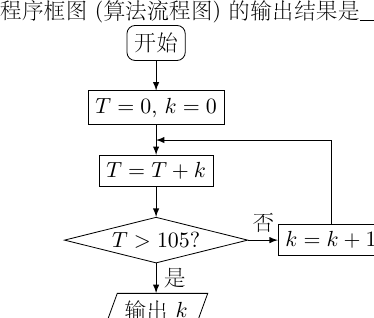
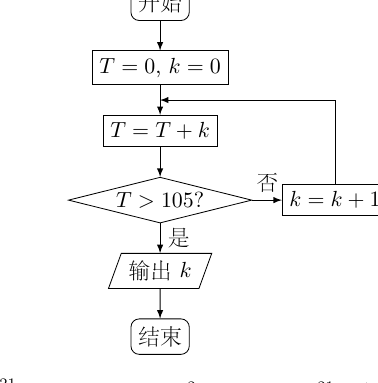
chore: sync precision manifest queue

diff --git a/content/2011/anhui_liberal.tex b/content/2011/anhui_liberal.tex
@@ -1,138 +1,160 @@
-\chapter{2013年安徽卷（文）}
+\chapter{2011年安徽卷（文）}
 
 \section{单选题}
 
 \begin{problem}
-设 \(i\) 是虚数单位，若复数 \(a - \frac{10}{3 - \i}\) \((a \in \R)\) 是纯虚数，则 \(a\) 的值为（\quad）
+设 \(i\) 是虚数单位，复数 \(\frac{1 + ai}{2 - \i}\) 为纯虚数，则实数 \(a\) 为（\quad）
 
 \choices
-    {\(-3\)}
+    {2}
+    {\(-2\)}
+    {\(-\frac{1}{2}\)}
+    {\(\frac{1}{2}\)}
+\end{problem}
+
+\begin{problem}
+集合 \(U = \{1, 2, 3, 4, 5, 6\}\)，\(S = \{1, 4, 5\}\)，\(T = \{2, 3, 4\}\)，则 \(S \cap \left(\complement_{U} T\right)\) 等于（\quad）
+
+\choices
+    {\(\{1, 4, 5, 6\}\)}
+    {\(\{1, 5\}\)}
+    {\(\{4\}\)}
+    {\(\{1, 2, 3, 4, 5\}\)}
+\end{problem}
+
+\begin{problem}
+双曲线 \(2x^{2} - y^{2} = 8\) 的实轴长是（\quad）
+
+\choices
+    {2}
+    {\(2\sqrt{2}\)}
+    {4}
+    {\(4\sqrt{2}\)}
+\end{problem}
+
+\begin{problem}
+若直线 \(3x + y + a = 0\) 过圆 \(x^{2} + y^{2} + 2x - 4y = 0\) 的圆心，则 \(a\) 的值为（\quad）
+
+\choices
     {\(-1\)}
     {1}
     {3}
+    {\(-3\)}
 \end{problem}
 
 \begin{problem}
-已知 \(A = \{x \mid x + 1 > 0\}\)，\(B = \{-2, -1, 0, 1\}\)，则 \(\left(\complement_{\R} A\right) \cap B =\)（\quad）
+若点 \((a, b)\) 在 \(y = \lg x\) 图象上，\(a \neq 1\)，则下列点中在此图象上的是（\quad）
 
 \choices
-    {\(\{-2, -1\}\)}
-    {\(\{-2\}\)}
-    {\(\{-1, 0, 1\}\)}
-    {\(\{0, 1\}\)}
+    {\(\left(\frac{1}{a}, b\right)\)}
+    {\((10a, 1 - b)\)}
+    {\(\left(\frac{10}{a}, b + 1\right)\)}
+    {\((a^{2}, 2b)\)}
 \end{problem}
 
 \begin{problem}
-如图所示，程序框图 (算法流程图) 的输出结果是（\quad）
-
-\bitmapfigure[max width=0.28\linewidth,max totalheight=4.8cm]{img/2011/anhui_liberal/q3_fig1.png}
+设变量 \(x, y\) 满足
+\[
+\begin{cases}
+x + y \leqslant 1, \\
+x - y \leqslant 1, \\
+x \geqslant 0,
+\end{cases}
+\]
+则 \(x + 2y\) 的最大值和最小值分别为（\quad）
 
 \choices
-    {\( \frac{3}{4} \)}
-    {\( \frac{1}{6} \)}
-    {\( \frac{11}{12} \)}
-    {\( \frac{25}{24} \)}
+    {1, \(-1\)}
+    {2, \(-2\)}
+    {1, \(-2\)}
+    {2, \(-1\)}
 \end{problem}
 
 \begin{problem}
-“\((2x - 1)x = 0\)”是“\(x = 0\)”的（\quad）
+若数列 \(\{a_{n}\}\) 的通项公式是 \(a_{n} = (-1)^{n}(3n - 2)\)，则 \(a_{1} + a_{2} + \cdots + a_{10} =\)（\quad）
 
 \choices
-    {充分不必要条件}
-    {必要不充分条件}
-    {充分必要条件}
-    {既不充分也不必要条件}
+    {15}
+    {12}
+    {\(-12\)}
+    {\(-15\)}
 \end{problem}
 
 \begin{problem}
-若某公司从五位大学毕业生甲、乙、丙、丁、戊中录用三人，这五人被录用的机会均等，则甲或乙被录用的概率为（\quad）
+一个空间几何体的三视图如图所示，则该几何体的表面积为（\quad）
+
+\bitmapfigure[max width=0.32\linewidth,max totalheight=4.8cm]{img/2011/anhui_liberal/q8_fig1.png}
 
 \choices
-    {\( \frac{2}{3} \)}
-    {\( \frac{2}{5} \)}
-    {\( \frac{3}{5} \)}
-    {\( \frac{9}{10} \)}
+    {48}
+    {\(32 + 8\sqrt{17}\)}
+    {\(48 + 8\sqrt{17}\)}
+    {80}
 \end{problem}
 
 \begin{problem}
-直线 \(x + 2y - 5 + \sqrt{5} = 0\) 被圆 \(x^{2} + y^{2} - 2x - 4y = 0\) 截得的弦长为（\quad）
+从正六边形的 6 个顶点中随机选择 4 个顶点，则以它们作为顶点的四边形是矩形的概率等于（\quad）
+
+\choices
+    {\(\frac{1}{10}\)}
+    {\(\frac{1}{8}\)}
+    {\(\frac{1}{6}\)}
+    {\(\frac{1}{5}\)}
+\end{problem}
+
+\begin{problem}
+函数 \(f(x) = ax^{n}(1 - x)\) 在区间 \([0, 1]\) 上的图象如图所示，则 \(n\) 可能是（\quad）
+
+\bitmapfigure[max width=0.28\linewidth,max totalheight=4.8cm]{img/2011/anhui_liberal/q10_fig1.png}
 
 \choices
     {1}
     {2}
-    {4}
-    {\( 4\sqrt{6} \)}
-\end{problem}
-
-\begin{problem}
-设 \(S_{n}\) 为等差数列 \(\{a_{n}\}\) 的前 \(n\) 项和，\(S_{8} = 4a_{3}, a_{7} = -2\)，则 \(a_{9} =\)（\quad）
-
-\choices
-    {\(-6\)}
-    {\(-4\)}
-    {\(-2\)}
-    {2}
-\end{problem}
-
-\begin{problem}
-函数 \( y = f(x) \) 的图象如图所示，在区间 \([a, b]\) 上可找到 \( n (n \geqslant 2) \) 个不同的数 \( x_1, x_2, \cdots, x_n \)，使得 \( \frac{f(x_1)}{x_1} = \frac{f(x_2)}{x_2} = \cdots = \frac{f(x_n)}{x_n} \)，则 \( n \) 的取值范围为（\quad）
-
-\bitmapfigure[max width=0.28\linewidth,max totalheight=4.8cm]{img/2011/anhui_liberal/q8_fig1.png}
-
-\choices
-    {\(\{2, 3\}\)}
-    {\(\{2, 3, 4\}\)}
-    {\(\{3, 4\}\)}
-    {\(\{3, 4, 5\}\)}
-\end{problem}
-
-\begin{problem}
-设 \(\triangle ABC\) 的内角 \(A, B, C\) 所对边的长分别为 \(a, b, c\)，若 \(b + c = 2a\)，\(3\sin A = 5\sin B\)，则角 \(C =\)（\quad）
-
-\choices
-    {\( \frac{\pi}{3} \)}
-    {\( \frac{2\pi}{3} \)}
-    {\( \frac{3\pi}{4} \)}
-    {\(\frac{5\pi}{6}\)}
-\end{problem}
-
-\begin{problem}
-已知函数 \( f(x) = x^3 + ax^2 + bx + c \) 有两个极值点 \( x_1, x_2 \)，若 \( f(x_1) = x_1 < x_2 \)，则关于 \( x \) 的方程 \( 3(f(x))^2 + 2af(x) + b = 0 \) 的不同实根个数为（\quad）
-
-\choices
     {3}
     {4}
-    {5}
-    {6}
 \end{problem}
 
 \section{填空题}
 
 \begin{problem}
-函数 \( y = \ln \left(1 + \frac{1}{x}\right) + \sqrt{1 - x^{2}} \) 的定义域为 \fillinblank{}.
+设 \(f(x)\) 是定义在 \(\R\) 上的奇函数，当 \(x \leqslant 0\) 时，\(f(x) = 2x^{2} - x\)，则 \(f(1) = \fillinblank{}\).
 \end{problem}
 
 \begin{problem}
-若非负变量 \(x, y\) 满足的约束条件 \(\begin{cases} x - y \geqslant -1, \\ x + 2y \leqslant 4. \end{cases}\) 则 \(x + y\) 的最大值为 \fillinblank{}.
+如图所示，程序框图（算法流程图）的输出结果是 \fillinblank{}.
+
+\bitmapfigure[max width=0.28\linewidth,max totalheight=4.8cm]{img/2011/anhui_liberal/q12_fig1.png}
 \end{problem}
 
 \begin{problem}
-若非零向量 \(a, b\) 满足 \(\lvert a \rvert = 3\lvert b \rvert = \lvert a + 2b \rvert\)，则 \(a\) 与 \(b\) 夹角的余弦值为 \fillinblank{}.
+函数 \(y = \frac{1}{\sqrt{6 - x - x^{2}}}\) 的定义域是 \fillinblank{}.
 \end{problem}
 
 \begin{problem}
-定义在 \(\R\) 上的函数 \(f(x)\) 满足 \(f(x + 1) = 2f(x)\). 若当 \(0 \leqslant x \leqslant 1\) 时，\(f(x) = x(1 - x)\)，则当 \(-1 \leqslant x \leqslant 0\) 时，\(f(x) = \fillinblank{}\).
+已知向量 \(a, b\) 满足 \((a + 2b) \cdot (a - b) = -6\)，且 \(|a| = 1, |b| = 2\)，则 \(a\) 与 \(b\) 的夹角为 \fillinblank{}.
 \end{problem}
 
 \begin{problem}
-如图，正方体 \(ABCD - A_{1}B_{1}C_{1}D_{1}\) 的棱长为 \(1\)，\(P\) 为 \(BC\) 中点，\(Q\) 为线段 \(CC_{1}\) 上的动点，过 \(A\)、\(P\)、\(Q\) 的平面截该正方体所得的截面记为 \(S\)，则下列命题正确的是 \fillinblank{}.（写出所有正确命题的编号）
+设 \(f(x) = a\sin 2x + b\cos 2x\)，其中 \(a, b \in \R, ab \neq 0\)，若 \(f(x) \leqslant \left|f\left(\frac{\pi}{6}\right)\right|\) 对一切 \(x \in \R\) 恒成立，则
+\begin{enumerate}
+\item \(f\left(\frac{11\pi}{12}\right) = 0\);
+\item \(f\left(\frac{7\pi}{10}\right) < \left|f\left(\frac{\pi}{5}\right)\right|\);
+\item \(f(x)\) 既不是奇函数，也不是偶函数;
+\item \(f(x)\) 的单调递增区间是 \(\left[k\pi + \frac{\pi}{6}, k\pi + \frac{2\pi}{3}\right]\)（\(k \in \Z\)）;
+\item 存在经过点 \((a, b)\) 的直线与函数 \(f(x)\) 的图象不相交.
+\end{enumerate}
+以上结论正确的是 \fillinblank{}.（写出所有正确结论的编号）
+\end{problem}
+
+\begin{problem}
+如图，正方体 \(ABCD - A_{1}B_{1}C_{1}D_{1}\) 的棱长为 \(1\)，\(P\) 为 \(BC\) 中点，\(Q\) 为线段 \(CC_{1}\) 上的动点，过 \(A\)、\(P\)、\(Q\) 的平面截该正方体所得的截面记为 \(S\)，则下列命题正确的是 \fillinblank{}。（写出所有正确命题的编号）
 
 \bitmapfigure[max width=0.32\linewidth,max totalheight=4.8cm]{img/2011/anhui_liberal/q15_fig1.png}
 
 \begin{circlelist}
 \item 当 \(0 < CQ < \frac{1}{2}\) 时，\(S\) 为四边形;
 \item 当 \(CQ = \frac{1}{2}\) 时，\(S\) 为等腰梯形;
-\item 当 \(CQ = \frac{3}{4}\) 时，\(S\) 与 \(C_1D_1\) 交点 \(R\) 满足 \(C_1R = \frac{1}{3}\);
+\item 当 \(CQ = \frac{3}{4}\) 时，\(S\) 与 \(C_{1}D_{1}\) 交点 \(R\) 满足 \(C_{1}R = \frac{1}{3}\);
 \item 当 \(\frac{3}{4} < CQ < 1\) 时，\(S\) 为六边形;
 \item 当 \(CQ = 1\) 时，\(S\) 的面积为 \(\frac{\sqrt{6}}{2}\).
 \end{circlelist}
@@ -141,28 +163,28 @@
 \section{解答题}
 
 \begin{problem}
-设函数 \( f(x) = \sin x + \sin \left(x + \frac{\pi}{3}\right) \).
+设函数 \(f(x) = \sin x + \sin \left(x + \frac{\pi}{3}\right)\).
 \begin{enumerate}
-\item 求 \( f(x) \) 的最小值，并求使 \( f(x) \) 取得最小值的 \(x\) 的集合;
-\item 不画图，说明函数 \( y = f(x) \) 的图象可由 \( y = \sin x \) 的图象经过怎样的变化得到.
+\item 求 \(f(x)\) 的最小值，并求使 \(f(x)\) 取得最小值的 \(x\) 的集合;
+\item 不画图，说明函数 \(y = f(x)\) 的图象可由 \(y = \sin x\) 的图象经过怎样的变化得到.
 \end{enumerate}
 \end{problem}
 
 \begin{problem}
-为调查甲、乙两校高三年级学生某次联考数学成绩情况. 用简单随机抽样，从这两校中各抽取 \(30\) 名高三年级学生，以他们的数学成绩（百分制）作为样本，样本数据的茎叶图如图:
+为调查甲、乙两校高三年级学生某次联考数学成绩情况。用简单随机抽样，从这两校中各抽取 \(30\) 名高三年级学生，以他们的数学成绩（百分制）作为样本，样本数据的茎叶图如图:
 
 \bitmapfigure[max width=0.46\linewidth,max totalheight=4.8cm]{img/2011/anhui_liberal/q17_fig1.png}
 
 \begin{enumerate}
 \item 若甲校高三年级每位学生被抽取的概率为 \(0.05\)，求甲校高三年级学生总人数，并估计甲校高三年级这次联考数学成绩的及格率（\(60\) 分及 \(60\) 分以上为及格）;
-\item 设甲、乙两校高三年级学生这次联考平均成绩分别为 \( \bar{x}_{1}, \bar{x}_{2} \)，估计 \( \bar{x}_{1} - \bar{x}_{2} \) 的值.
+\item 设甲、乙两校高三年级学生这次联考平均成绩分别为 \(\bar{x}_{1}, \bar{x}_{2}\)，估计 \(\bar{x}_{1} - \bar{x}_{2}\) 的值.
 \end{enumerate}
 \end{problem}
 
 \begin{problem}
 如图，四棱锥 \(P - ABCD\) 的底面 \(ABCD\) 是边长为 \(2\) 的菱形，\(\angle BAD = 60^{\circ}\). 已知 \(PB = PD = 2\)，\(PA = \sqrt{6}\).
 
-\bitmapfigure[max width=0.34\linewidth,max totalheight=4.8cm]{img/2011/anhui_liberal/q18_fig1.png}
+\bitmapfigure[max width=0.34\linewidth,max totalheight=4.8cm]{img/2011/anhui_liberal/q19_fig1.png}
 
 \begin{enumerate}
 \item 证明: \(PC \perp BD\);
@@ -182,17 +204,17 @@
 \end{problem}
 
 \begin{problem}
-设函数 \( f(x) = ax - (1 + a^2)x^2 \)，其中 \( a > 0 \)，区间 \( I = \{x \mid f(x) > 0\} \).
+设函数 \(f(x) = ax - (1 + a^{2})x^{2}\)，其中 \(a > 0\)，区间 \(I = \{x \mid f(x) > 0\}\).
 \begin{enumerate}
 \item 求 \(I\) 的长度（注：区间 \((\alpha, \beta)\) 的长度定义为 \(\beta - \alpha\)）;
-\item 给定常数 \(k \in (0,1)\)，当 \(1 - k \leqslant a \leqslant 1 + k\) 时，求 \(I\) 长度的最小值.
+\item 给定常数 \(k \in (0, 1)\)，当 \(1 - k \leqslant a \leqslant 1 + k\) 时，求 \(I\) 长度的最小值.
 \end{enumerate}
 \end{problem}
 
 \begin{problem}
-已知椭圆 \(C: \frac{x^2}{a^2} + \frac{y^2}{b^2} = 1 (a > b > 0)\) 的焦距为 \(4\)，且过点 \(P(\sqrt{2}, \sqrt{3})\).
+已知椭圆 \(C: \frac{x^{2}}{a^{2}} + \frac{y^{2}}{b^{2}} = 1\)（\(a > b > 0\)）的焦距为 \(4\)，且过点 \(P(\sqrt{2}, \sqrt{3})\).
 \begin{enumerate}
 \item 求椭圆 \(C\) 的方程.
-\item 设 \(Q(x_0, y_0) (x_0 y_0 \neq 0)\) 为椭圆 \(C\) 上一点，过点 \(Q\) 作 \(x\) 轴的垂线，垂足为 \(E\). 取点 \(A(0, 2\sqrt{2})\)，连接 \(AE\). 过点 \(A\) 作 \(AE\) 的垂线交 \(x\) 轴于点 \(D\). 点 \(G\) 是点 \(D\) 关于 \(y\) 轴的对称点，作直线 \(QG\). 问这样作出的直线 \(QG\) 是否与椭圆 \(C\) 一定有唯一的公共点? 并说明理由.
+\item 设 \(Q(x_{0}, y_{0})\)（\(x_{0}y_{0} \neq 0\)）为椭圆 \(C\) 上一点，过点 \(Q\) 作 \(x\) 轴的垂线，垂足为 \(E\). 取点 \(A(0, 2\sqrt{2})\)，连接 \(AE\). 过点 \(A\) 作 \(AE\) 的垂线交 \(x\) 轴于点 \(D\). 点 \(G\) 是点 \(D\) 关于 \(y\) 轴的对称点，作直线 \(QG\). 问这样作出的直线 \(QG\) 是否与椭圆 \(C\) 一定有唯一的公共点? 并说明理由.
 \end{enumerate}
 \end{problem}

diff --git a/content/2011/guangdong_science.tex b/content/2011/guangdong_science.tex
@@ -9,7 +9,7 @@
     {\(1 + \i\)}
     {\(1 - \i\)}
     {\(2 + 2\i\)}
-    {2 - 2i}
+    {\(2 - 2\i\)}
 \end{problem}
 
 \begin{problem}
@@ -87,7 +87,7 @@
 \section{填空题}
 
 \begin{problem}
-不等式 \(|x + 1| - |x - 3| \geqslant 0\) 的解集是 \fillinblank{} \fillinblank{}.
+不等式 \(|x + 1| - |x - 3| \geqslant 0\) 的解集是 \fillinblank{}.
 \end{problem}
 
 \begin{problem}
@@ -135,7 +135,7 @@
 \end{problem}
 
 \begin{problem}
-设圆 \(C\) 与两圆 \((x + \sqrt{3})^2 + y^2 = 4, (x - \sqrt{3})^2 + y^2 = 4\) 中的一个内切，另一个外切. (1) 求 \(C\) 的圆心轨迹 \(L\) 的方程. (2) 已知点 \(M\left(\frac{3\sqrt{5}}{5}, \frac{4\sqrt{5}}{5}\right)\)，\(F(\sqrt{5}, 0)\)，且 \(P\) 为 \(L\) 上动点，求 \(\|MP\| - \|FP\|\) 的最大值及此时点 \(P\) 的坐标.
+设圆 \(C\) 与两圆 \((x + \sqrt{5})^2 + y^2 = 4, (x - \sqrt{5})^2 + y^2 = 4\) 中的一个内切，另一个外切. (1) 求 \(C\) 的圆心轨迹 \(L\) 的方程. (2) 已知点 \(M\left(\frac{3\sqrt{5}}{5}, \frac{4\sqrt{5}}{5}\right)\)，\(F(\sqrt{5}, 0)\)，且 \(P\) 为 \(L\) 上动点，求 \(\|MP\| - \|FP\|\) 的最大值及此时点 \(P\) 的坐标.
 \end{problem}
 
 \begin{problem}

diff --git a/content/2011/anhui_science.tex b/content/2011/anhui_science.tex
@@ -97,6 +97,8 @@
 \begin{problem}
 函数 \( f(x) = ax^{m}(1 - x)^n \) 在区间 \([0,1]\) 上的图象如图所示，则 \( m, n \) 的值可能是（\quad）
 
+\bitmapfigure[max width=0.46\linewidth,max totalheight=3.4cm]{img/2011/anhui_science/q10_fig1.png}
+
 \choices
     {\(m = 1, n = 1\)}
     {\(m = 1, n = 2\)}
@@ -108,6 +110,8 @@
 
 \begin{problem}
 如图所示，程序框图（算法流程图）的输出结果是 \fillinblank{}.
+
+\bitmapfigure[max width=0.42\linewidth,max totalheight=4.6cm]{img/2011/anhui_science/q11_fig1.png}
 \end{problem}
 
 \begin{problem}
